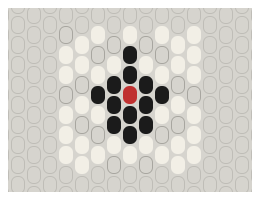
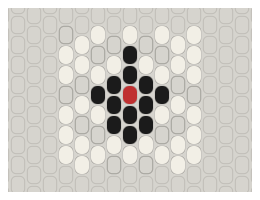
Draw the outlines as a repeating tile, apart from the beads
The outlines of the empty places were most of the one mesh of the field
and were built again on every press: about 40 ms of a release build at
PALE_MIN_BEAD in a window of 1000 by 700 points. A grid repeats, loom
every cell and peyote every two columns, so one tile of outlines is now
drawn into a small texture by the distance to a rounded box (tile.rs),
again only when the size of a bead or the grid changes. A column of the
field on the screen is one quad of it, tinted pale over the field and
plain over the active area. The mesh holds the beads only. A press, a
step of a zoom and a move each take a few ms in the same case.

diff --git a/crates/obusina-canvas/src/tile.rs b/crates/obusina-canvas/src/tile.rs
@@ -1,0 +1,219 @@
+//! The outlines of the empty places, drawn as one texture that repeats.
+//!
+//! A grid repeats: loom every cell, peyote every two columns. One tile of
+//! outlines is drawn into a small texture by the distance to a rounded box,
+//! and a column of the field is one quad of that texture, so the cost of the
+//! outlines does not grow with the field. The tile is white; a quad tints
+//! it.
+
+use egui::epaint::Vertex;
+use egui::{Color32, ColorImage, Context, Mesh, Pos2, TextureHandle, TextureOptions, Vec2, vec2};
+use obusina_pattern::{Bounds, Cell, Grid};
+
+use crate::View;
+
+/// What a tile is drawn from.
+#[derive(Debug, Clone, Copy, PartialEq)]
+struct Key {
+    grid: Grid,
+    ratio: f32,
+    /// Pixels a bead is high.
+    pixels: f32,
+    /// The part of a bead left as a gap, the rounding, the width of an
+    /// outline in pixels.
+    gap: f32,
+    rounding: f32,
+    stroke: f32,
+}
+
+/// A tile and what it was drawn from.
+#[derive(Clone)]
+struct Kept {
+    key: Key,
+    texture: TextureHandle,
+}
+
+/// The texture of one tile of `grid`, its beads `bead` points high: drawn
+/// again only when one of these changes. `gap` and `rounding` are parts of
+/// the height of a bead; `stroke` is the width of an outline in points.
+pub fn texture(
+    context: &Context,
+    grid: Grid,
+    ratio: f32,
+    bead: f32,
+    gap: f32,
+    rounding: f32,
+    stroke: f32,
+) -> TextureHandle {
+    let pixels_per_point = context.pixels_per_point();
+    let key = Key {
+        grid,
+        ratio,
+        pixels: bead * pixels_per_point,
+        gap,
+        rounding,
+        stroke: stroke * pixels_per_point,
+    };
+    let id = egui::Id::unique("obusina-canvas-tile");
+    if let Some(kept) = context.data(|data| data.get_temp::<Kept>(id))
+        && kept.key == key
+    {
+        return kept.texture;
+    }
+    let options = TextureOptions {
+        wrap_mode: egui::TextureWrapMode::Repeat,
+        ..TextureOptions::LINEAR
+    };
+    let texture = context.load_texture("obusina-canvas-tile", draw(key), options);
+    context.data_mut(|data| {
+        data.insert_temp(
+            id,
+            Kept {
+                key,
+                texture: texture.clone(),
+            },
+        );
+    });
+    texture
+}
+
+/// The size of a tile in bead units: one cell of loom, two columns of
+/// peyote.
+pub fn size(grid: Grid, ratio: f32) -> Vec2 {
+    match grid {
+        Grid::Loom => vec2(ratio, 1.0),
+        Grid::Peyote => vec2(2.0 * ratio, 1.0),
+    }
+}
+
+/// Adds to `mesh` one quad for each column of `cells`, tinted `colour`: the
+/// outlines of those cells. The pattern stands at `origin`, shown by `view`.
+pub fn add_columns(
+    mesh: &mut Mesh,
+    grid: Grid,
+    ratio: f32,
+    view: &View,
+    origin: Pos2,
+    cells: Bounds,
+    colour: Color32,
+) {
+    let tile = size(grid, ratio);
+    for column in cells.min.column..=cells.max.column {
+        let (left, top) = grid.origin(
+            Cell {
+                column,
+                row: cells.min.row,
+            },
+            ratio,
+        );
+        let right = left + ratio;
+        let bottom = top + cells.height() as f32;
+        let corners = [
+            vec2(left, top),
+            vec2(right, top),
+            vec2(right, bottom),
+            vec2(left, bottom),
+        ];
+        let first = mesh.vertices.len() as u32;
+        for corner in corners {
+            let shown = origin + view.to_shown(corner * view.bead);
+            let uv = Pos2::new(corner.x / tile.x, corner.y / tile.y);
+            mesh.vertices.push(Vertex {
+                pos: shown,
+                uv,
+                color: colour,
+            });
+        }
+        mesh.add_triangle(first, first + 1, first + 2);
+        mesh.add_triangle(first, first + 2, first + 3);
+    }
+}
+
+/// Draws a tile: white outlines on nothing.
+fn draw(key: Key) -> ColorImage {
+    let tile = size(key.grid, key.ratio);
+    let width = (tile.x * key.pixels).round().max(1.0) as usize;
+    let height = key.pixels.round().max(1.0) as usize;
+    let per_pixel = vec2(tile.x / width as f32, tile.y / height as f32);
+    let columns = (tile.x / key.ratio).round() as i32;
+    let shrink = key.gap / 2.0;
+    let half = vec2(key.ratio / 2.0 - shrink, 0.5 - shrink);
+    let radius = (1.0 - key.gap) * key.rounding;
+    let mut pixels = Vec::with_capacity(width * height);
+    for y in 0..height {
+        for x in 0..width {
+            let point = vec2(x as f32 + 0.5, y as f32 + 0.5) * per_pixel;
+            let mut cover: f32 = 0.0;
+            for column in -1..=columns {
+                for row in -1..=1 {
+                    let (left, top) = key.grid.origin(Cell { column, row }, key.ratio);
+                    let centre = vec2(left, top) + vec2(key.ratio, 1.0) / 2.0;
+                    let distance = rounded_box(point - centre, half, radius) * key.pixels;
+                    let inside = (0.5 - distance).clamp(0.0, 1.0);
+                    let within = (distance + key.stroke + 0.5).clamp(0.0, 1.0);
+                    cover = cover.max(inside * within);
+                }
+            }
+            pixels.push(Color32::from_white_alpha((cover * 255.0).round() as u8));
+        }
+    }
+    ColorImage::new([width, height], pixels)
+}
+
+/// The signed distance from `point` to a box of half size `half` with
+/// corners of `radius`, centred on zero: negative inside.
+fn rounded_box(point: Vec2, half: Vec2, radius: f32) -> f32 {
+    let radius = radius.min(half.x).min(half.y).max(0.0);
+    let corner = point.abs() - half + Vec2::splat(radius);
+    let outside = corner.max(Vec2::ZERO).length();
+    let inside = corner.x.max(corner.y).min(0.0);
+    outside + inside - radius
+}
+
+#[cfg(test)]
+mod tests {
+    use super::*;
+
+    fn key(grid: Grid) -> Key {
+        Key {
+            grid,
+            ratio: 1.0,
+            pixels: 20.0,
+            gap: 0.1,
+            rounding: 0.3,
+            stroke: 1.0,
+        }
+    }
+
+    fn alpha(image: &ColorImage, x: usize, y: usize) -> u8 {
+        image.pixels[y * image.size[0] + x].a()
+    }
+
+    #[test]
+    fn a_loom_tile_is_one_cell_with_its_outline_inside() {
+        let image = draw(key(Grid::Loom));
+
+        assert_eq!(image.size, [20, 20]);
+        assert_eq!(alpha(&image, 10, 10), 0, "the middle is empty");
+        assert_eq!(alpha(&image, 0, 10), 0, "the gap is empty");
+        assert!(alpha(&image, 1, 10) > 200, "the outline is inside the gap");
+    }
+
+    /// The odd column is half a bead lower: its outline crosses the top and
+    /// the bottom of the tile, and the tile repeats it whole.
+    #[test]
+    fn a_peyote_tile_holds_the_lower_column() {
+        let image = draw(key(Grid::Peyote));
+
+        assert_eq!(image.size, [40, 20]);
+        assert!(alpha(&image, 30, 1) == 0 && alpha(&image, 30, 11) > 200);
+        assert!(alpha(&image, 10, 1) > 200 && alpha(&image, 10, 11) == 0);
+    }
+
+    #[test]
+    fn the_distance_to_a_box_is_negative_inside() {
+        let half = vec2(2.0, 1.0);
+        assert!(rounded_box(Vec2::ZERO, half, 0.2) < 0.0);
+        assert!((rounded_box(vec2(3.0, 0.0), half, 0.2) - 1.0).abs() < 1e-6);
+    }
+}

diff --git a/crates/obusina-canvas/src/lib.rs b/crates/obusina-canvas/src/lib.rs
@@ -3,17 +3,20 @@
 #![deny(missing_docs)]
 
 mod mesh;
+mod tile;
 mod view;
 
 pub use view::{MAX_BEAD, MIN_BEAD, Turn, View};
 
-use egui::{Color32, Pos2, Rect, Response, Sense, Stroke, StrokeKind, Ui, Vec2, vec2};
+use egui::{Color32, Pos2, Rect, Response, Sense, Ui, Vec2, vec2};
 use obusina_pattern::{Bounds, Cell, Pattern};
 
 /// The part of a bead left as a gap to its neighbours.
 const GAP: f32 = 0.08;
 /// The rounding of a bead, as a part of its height.
 const ROUNDING: f32 = 0.3;
+/// The width of the outline of an empty place, in points.
+const OUTLINE: f32 = 1.0;
 /// The ground under the beads: a neutral grey, the same in every theme, so
 /// that a colour looks the same and a black bead is seen.
 const PAPER: Color32 = Color32::from_rgb(0xd6, 0xd4, 0xce);
@@ -86,6 +89,7 @@ impl<'a> Canvas<'a> {
         let painter = ui.painter_at(rect);
         painter.rect_filled(rect, 0.0, PAPER);
         let origin = rect.min + self.view.offset;
+        self.draw_outlines(ui, &painter, origin, rect);
         let tessellated = self.draw_beads(ui, &painter, response.id, origin, rect);
 
         let hovered = response
@@ -170,41 +174,59 @@ impl<'a> Canvas<'a> {
         self.field().is_some_and(|field| field.contains(cell))
     }
 
-    /// A shape for every bead of `window` in the field, the pattern standing
-    /// at `origin`: a bead filled, an empty place in the active area
-    /// outlined, one outside it outlined pale, or left bare when beads are
-    /// small.
+    /// The outlines of the empty places of the field on the screen, as
+    /// quads of the repeating tile: pale over the field, plain over the
+    /// active area. The pale ones are left out below [`PALE_MIN_BEAD`].
+    ///
+    /// A bead is drawn over its outline, which lies inside it.
+    fn draw_outlines(&self, ui: &Ui, painter: &egui::Painter, origin: Pos2, screen: Rect) {
+        let Some(field) = self.field() else {
+            return;
+        };
+        let visible = self.cells_under(origin, screen);
+        let pattern = self.pattern;
+        let (grid, ratio) = (pattern.grid(), pattern.ratio());
+        let texture = tile::texture(
+            ui.ctx(),
+            grid,
+            ratio,
+            self.view.bead,
+            GAP,
+            ROUNDING,
+            OUTLINE,
+        );
+        let mut mesh = egui::Mesh::with_texture(texture.id());
+        let view: &View = self.view;
+        if view.bead >= PALE_MIN_BEAD
+            && let Some(cells) = field.intersection(visible)
+        {
+            tile::add_columns(&mut mesh, grid, ratio, view, origin, cells, PALE);
+        }
+        if let Some(cells) = pattern
+            .bounds()
+            .and_then(|active| active.intersection(visible))
+        {
+            tile::add_columns(&mut mesh, grid, ratio, view, origin, cells, EMPTY);
+        }
+        painter.add(egui::Shape::mesh(mesh));
+    }
+
+    /// A shape for every bead of `window`, the pattern standing at `origin`.
     ///
     /// The rounding is a part of the height of a bead before the field is
     /// turned, so a turned bead is rounded the same.
     fn bead_shapes(&self, origin: Pos2, window: Bounds) -> Vec<egui::Shape> {
-        let active = self.pattern.bounds();
-        let pale = self.view.bead >= PALE_MIN_BEAD;
         let rounding = self.view.bead * (1.0 - GAP) * ROUNDING;
-        let Some(cells) = self.field().and_then(|field| field.intersection(window)) else {
-            return Vec::new();
-        };
-        let outline = |bead, colour| {
-            egui::Shape::rect_stroke(bead, rounding, Stroke::new(1.0, colour), StrokeKind::Inside)
-        };
-        cells
-            .cells()
-            .filter_map(|cell| {
-                let inside = active.is_some_and(|active| active.contains(cell));
-                let shape = match self.pattern.get(cell) {
-                    Some(index) => {
-                        let [red, green, blue] = self.pattern.palette()[index].rgb.0;
-                        egui::Shape::rect_filled(
-                            self.bead_rect(origin, cell),
-                            rounding,
-                            Color32::from_rgb(red, green, blue),
-                        )
-                    }
-                    None if inside => outline(self.bead_rect(origin, cell), EMPTY),
-                    None if pale => outline(self.bead_rect(origin, cell), PALE),
-                    None => return None,
-                };
-                Some(shape)
+        self.pattern
+            .beads()
+            .filter(|(cell, _)| window.contains(*cell))
+            .map(|(cell, index)| {
+                let [red, green, blue] = self.pattern.palette()[index].rgb.0;
+                egui::Shape::rect_filled(
+                    self.bead_rect(origin, cell),
+                    rounding,
+                    Color32::from_rgb(red, green, blue),
+                )
             })
             .collect()
     }

diff --git a/docs/field.md b/docs/field.md
@@ -45,13 +45,8 @@ on the field, columns 1 2 3       the file
    can be drawn outside it all the same.
 10. **The pale outlines are hidden when a bead is drawn small.** Below
     `PALE_MIN_BEAD` the ground stays bare outside the active area.
-    - Why: a screen of small beads holds tens of thousands of outlines,
-      costly to draw and of no use to the eye.
-    - The cost: the mesh holds the cells of the screen and half a screen
-      more on every side, and is built again when the screen leaves them.
-      At `PALE_MIN_BEAD` in a window of 1000 by 700 points a build took
-      about 40 ms of a release build; a frame that only moves the mesh
-      takes well under one.
+    - Why: a screen of small beads is a dense net of lines, of no use to the
+      eye.
 11. **A new pattern is an empty field,** shown on cell (0, 0). A pattern
     with beads opens on the middle of its active area.
 12. **A turn keeps the middle of the screen.** What is seen in the middle
@@ -82,3 +77,10 @@ on the field, columns 1 2 3       the file
     typed, so a finger reaches it.
     - The size lives for the session, like the sheet. It is no step of
       undo: it changes no bead.
+15. **The outlines are one repeating texture, apart from the beads.** A tile
+    of outlines is drawn once for the size of a bead; a column of the field
+    is one quad of it. The beads are their own mesh.
+    - Why: the outlines were most of one mesh and were built again on every
+      press. At `PALE_MIN_BEAD` in a window of 1000 by 700 points, a press
+      took about 40 ms of a release build; now a press, a step of a zoom
+      and a move each take a few ms.

diff --git a/crates/obusina-canvas/README.md b/crates/obusina-canvas/README.md
@@ -14,12 +14,18 @@ The field of beads: an egui widget that draws an
   not drawn below `PALE_MIN_BEAD`.
 - Puts the middle of the active area, or cell (0, 0) when there is none, in
   the middle of the field the first time the field has a size.
-- Keeps the beads as one tessellated mesh of the cells on the screen and half
-  a screen more on every side. It is tessellated anew only when the pattern
-  (its revision), the size of a bead, the turn or the pixels of the screen
-  change, or the screen leaves those cells; otherwise a move of the field
-  moves the mesh. `tessellated` in `CanvasResponse` says which frame built
-  it.
+- Draws the outlines of the empty places as one tile that repeats
+  (`tile.rs`): loom repeats every cell, peyote every two columns. The tile
+  is drawn by the distance to a rounded box, again only when the size of a
+  bead or the grid changes; a column of the field on the screen is one quad
+  of it, tinted pale or plain. The outlines cost the same at any size of the
+  field.
+- Keeps the beads as one tessellated mesh of the beads on the screen and
+  half a screen more on every side. It is tessellated anew only when the
+  pattern (its revision), the size of a bead, the turn or the pixels of the
+  screen change, or the screen leaves those cells; otherwise a move of the
+  field moves the mesh. `tessellated` in `CanvasResponse` says which frame
+  built it.
 - Turns the field by quarters, `View::turn`: 90, 180, 270, and 360, which is
   where it started. What is in the middle of the field stays there. Only the
   showing turns; the pattern is the same.
